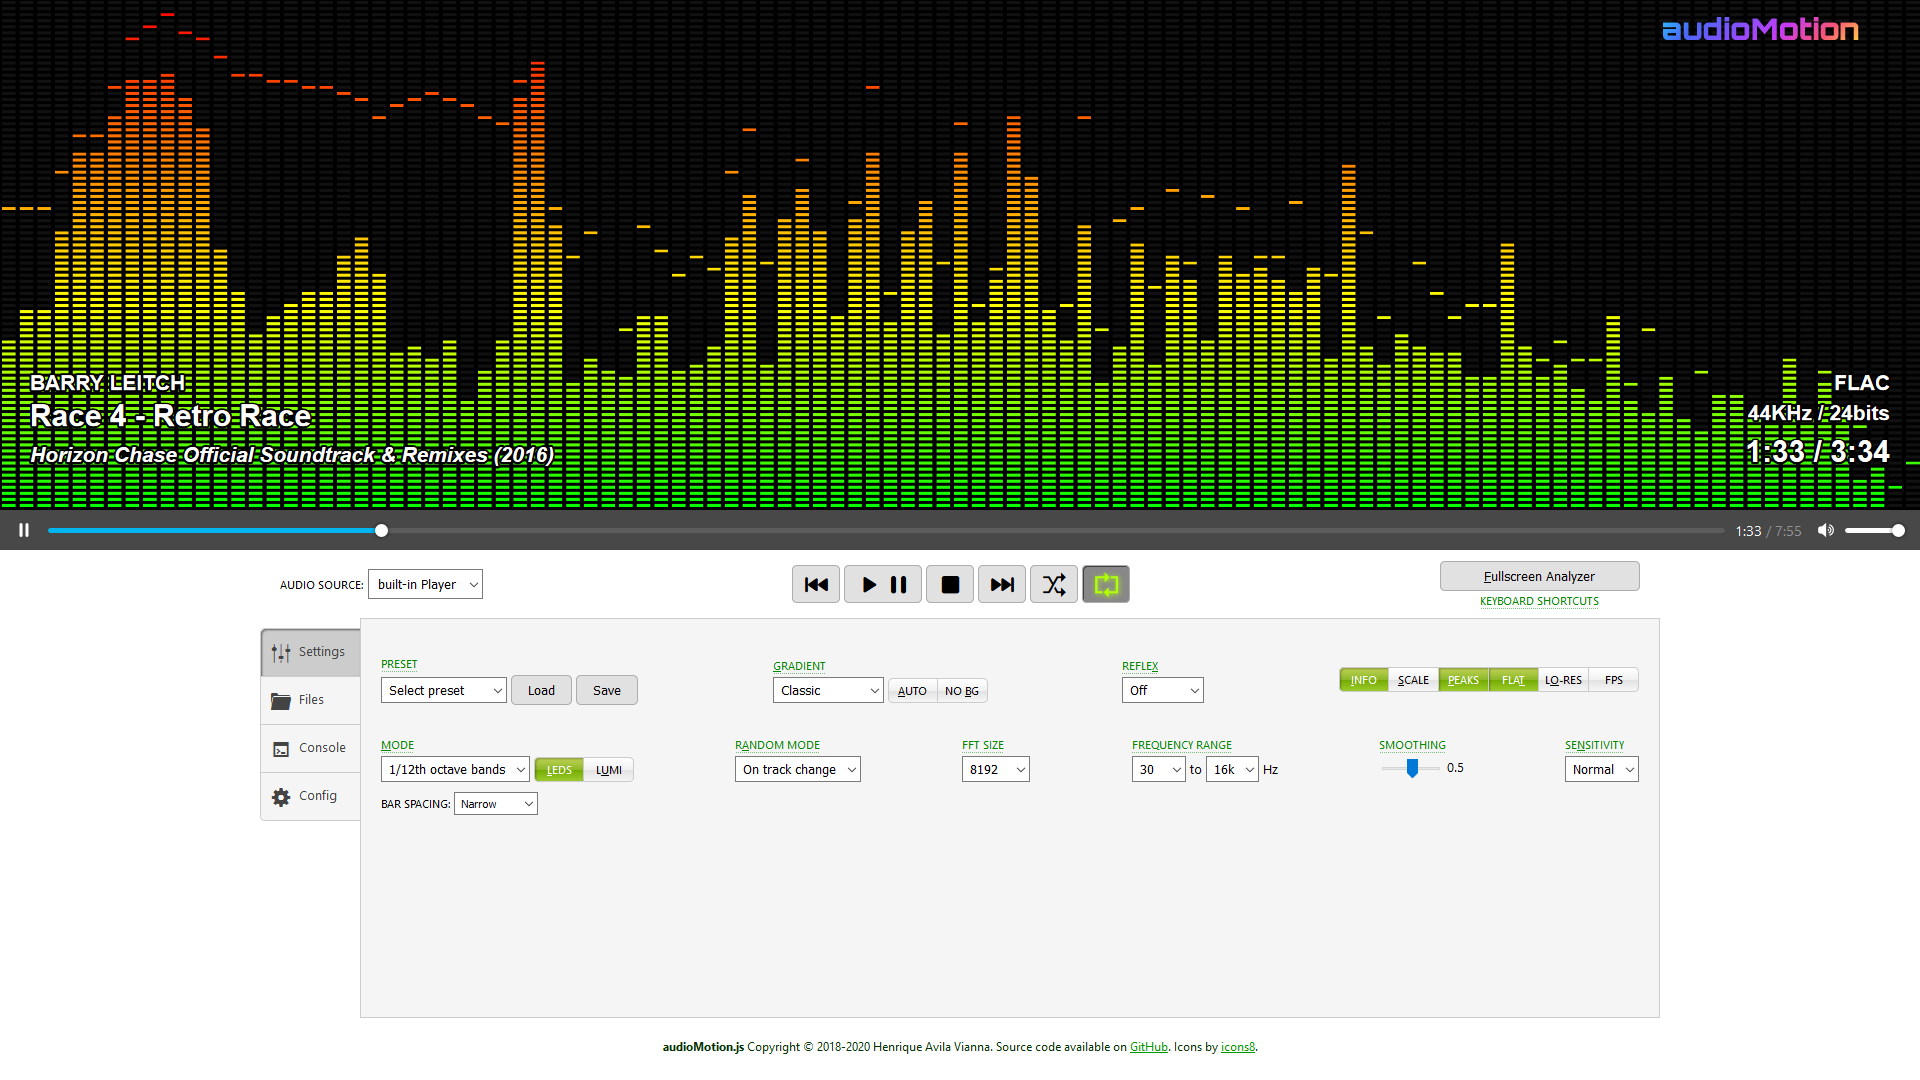
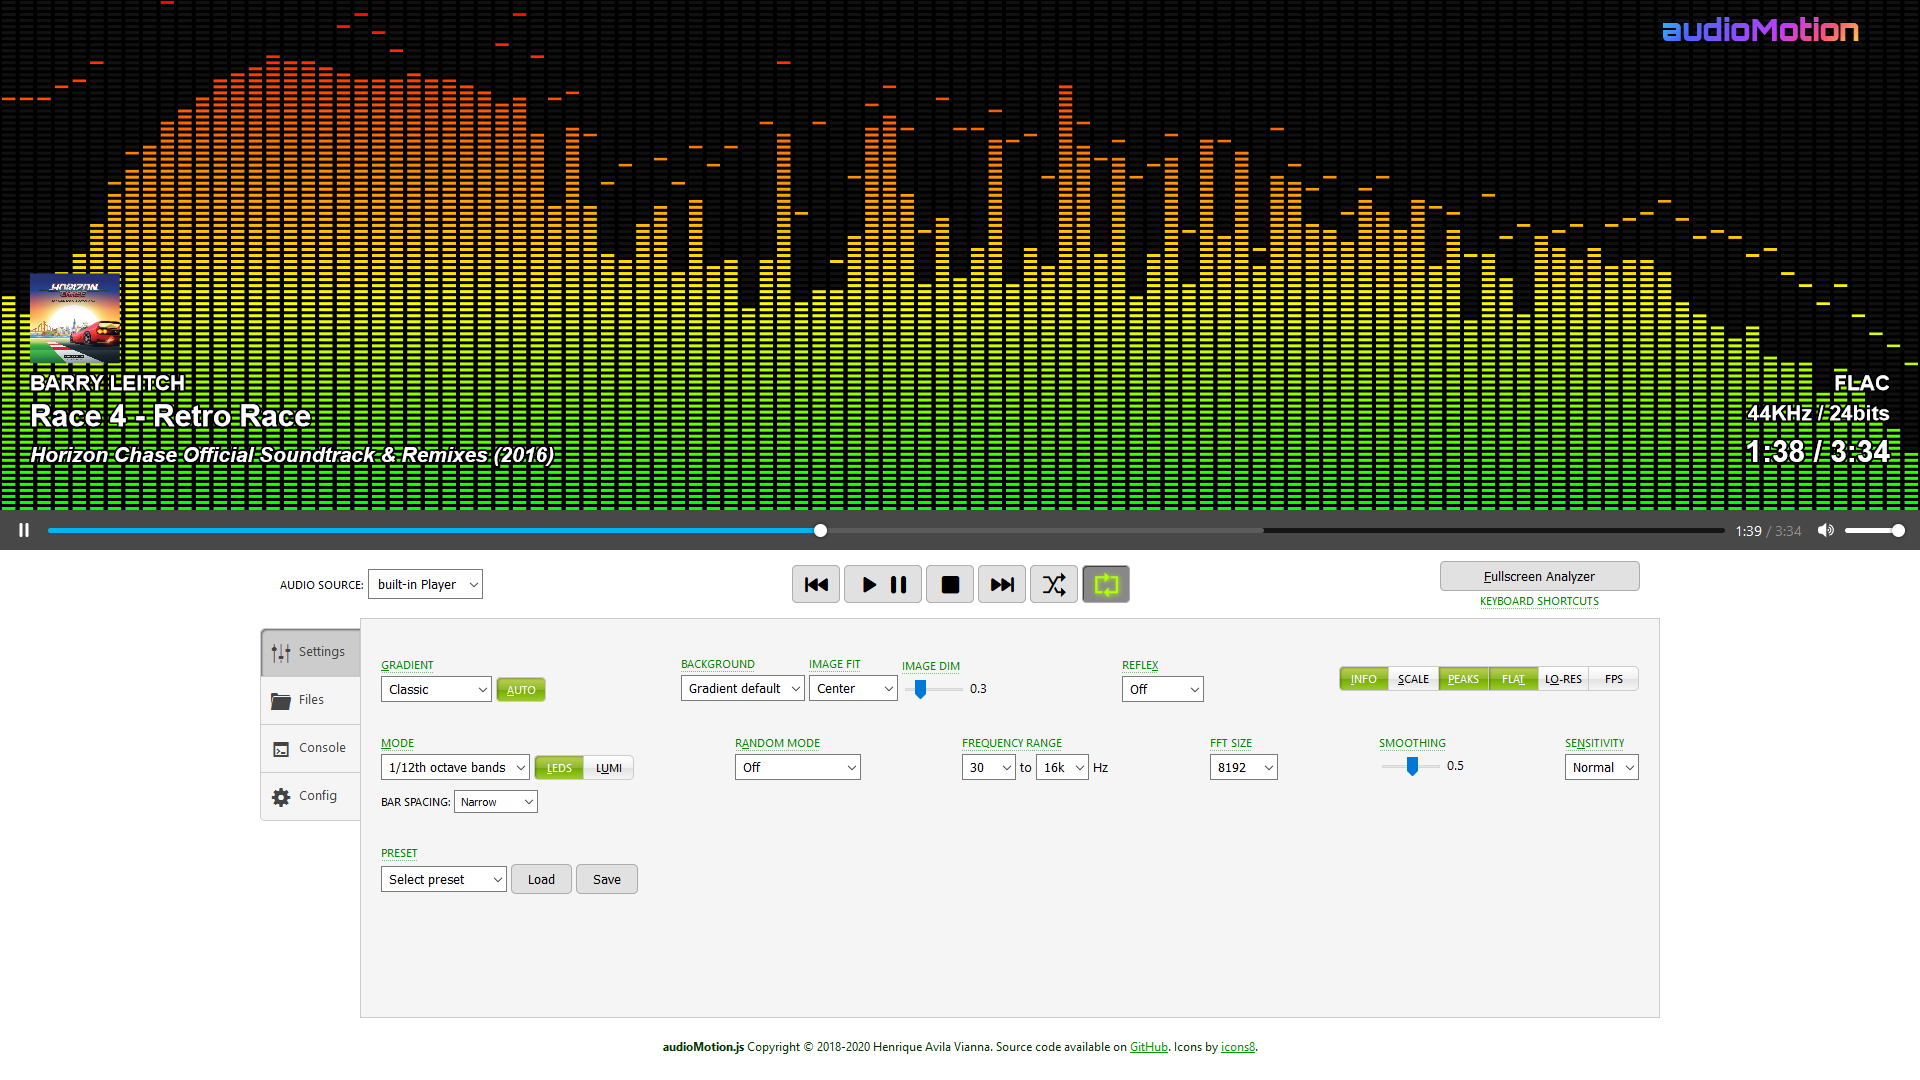
Update documentation.

diff --git a/_sass/overrides.scss b/_sass/overrides.scss
@@ -18,6 +18,10 @@ a:not([class]):hover {
 	color: var(--accent-color-1);
 }
 
+body {
+  font-family: -apple-system,BlinkMacSystemFont,"helvetica neue","segoe ui",helvetica,roboto,noto,arial,sans-serif;
+}
+
 h1, h2, h3, h4,
 .site-title {
 	background: linear-gradient( -45deg, #ffdf43, #fa5476, #c63bf3, #8550ff, #4a68f7, #23d2ff );

diff --git a/Changelog.md b/Changelog.md
@@ -10,15 +10,22 @@ nav_order: 3
 
 ### Added:
 
-+ Song information now shows the album cover image, when available (see below);
-+ New [Background](docs/user-interface.md#background) setting - replaces the **NO BG** switch and adds options to display the album cover image in the background.
++ Album cover images retrieved from the song metadata or from a file named *cover* or *folder* (.jpg|png|gif|bmp) inside each folder
+are now shown in the file explorer background, the on-screen song information and as an option for the analyzer background;
 
-Cover images can be retrieved from the songs' metadata or from a file named *cover* or *folder* (with jpg, png, gif or bmp extension) inside each folder -
-these will also be shown as the folder background in the file explorer.
++ New [Background](docs/user-interface.md#background), [Image Fit](docs/user-interface.md#image-fit) and [Image Dim](docs/user-interface.md#image-dim)settings.
+
+### Changed:
+
++ Slightly increased the opacity of the image reflection when Reflex is On.
+
+### Removed:
+
++ The **NO BG** switch has been replaced by the new Background setting and uses the same keyboard shortcut (**B**).
 
 ### Fixed:
 
-+ Linux binary built with [latest pkg version](https://github.com/zeit/pkg/pull/751#issuecomment-626363292) can now launch the client in browser;
++ Linux binary built with [latest pkg version](https://github.com/zeit/pkg/pull/751#issuecomment-626363292) can now open the browser automatically;
 + A typo that could cause "Unexpected null" errors on some browsers.
 
 
